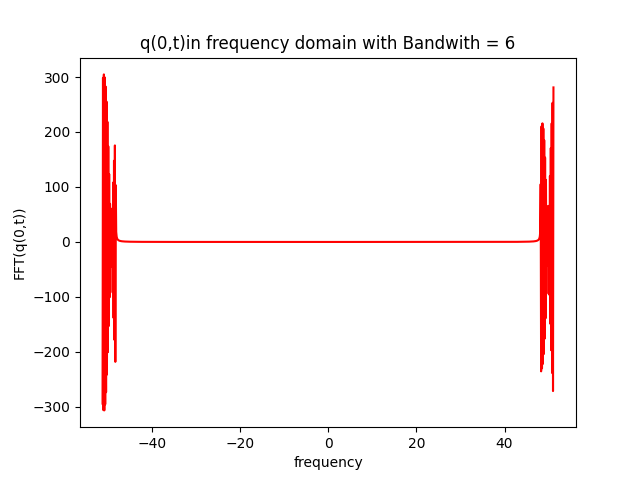
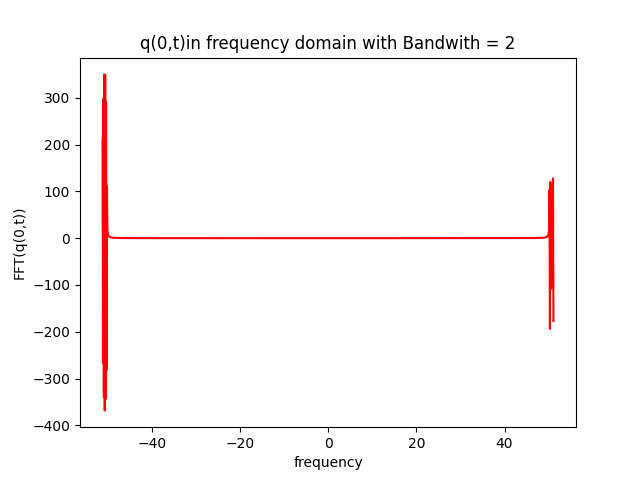
question 14

diff --git a/data.py b/data.py
@@ -1,15 +1,16 @@
 from math import *
 import numpy as np
 import matplotlib.pyplot as plt
+import scipy
 
 
 class DataGenerator:
 
     def __init__(self, Length=1e6, Bandwith=5, power_loss_db=0.2*1e-3, dispersion=17*1e-3, Gamma=1.27*1e-3,
-                 nsp=1, h=6.626*1e-34, lambda0=1.55*1e-6):
+                 nsp=1, h=6.626*1e-34, lambda0=1.55*1e-6,T=200,N=2**5,number_symbols=3,p=0.5):
 
         self.Length = Length
-        self.Bandwith = Bandwith
+        self.Bandwith = Bandwith # GHz to Hz
         self.power_loss_db = power_loss_db
         self.dispersion = dispersion
         self.Gamma = Gamma
@@ -26,6 +27,24 @@ class DataGenerator:
         self.sigma02 = self.nsp * self.h * self.alpha * self.f0
         self.sigma2 = (self.sigma02 * self.L0) / (self.P0 * self.T0)
         self.M = 16
+        
+        self.T = T
+        self.N = N
+        self.number_symbols = number_symbols # n in project guide
+        self.p = p # proba of having 0 in bit
+    
+        
+        self.dt = self.T / self.N
+
+        self.t = np.arange(start=-self.T/2,stop=self.T/2,step=self.dt)
+        
+        self.F = 1 / self.dt
+
+        self.df = 1 / self.T
+
+        self.f = np.arange(start=-self.F/2,stop=self.F/2,step=self.df)
+        
+        self.number_bits = self.number_symbols * int(log2(self.M)) # nb in guide
 
         # Constellation
 
@@ -42,12 +61,10 @@ class DataGenerator:
         self.Constellation = np.concatenate((np.concatenate((const1, const2), axis=0),
                                              np.concatenate((const3, const4), axis=0)), axis=0)
 
-    def source(self, N, p):
+    def source(self):
 
-        self.N = N
-        self.p = p
 
-        self.bernoulli = np.random.binomial(n=1, p=self.p, size=self.N)
+        self.bernoulli = np.random.binomial(n=1, p=self.p, size=self.number_bits)
 
         # return self.bernoulli
 
@@ -69,7 +86,7 @@ class DataGenerator:
         self.s = []
 
 
-        for i in range(0, self.N, 4):
+        for i in range(0, self.number_bits, 4):
             
             b0 = str(self.bernoulli[i])
             b1 = str(self.bernoulli[i+1])
@@ -83,7 +100,7 @@ class DataGenerator:
         
         self.s = np.asarray(self.s)
 
-    def mod(self,t):
+    def mod(self):
         
         Ns = len(self.s)
         
@@ -96,14 +113,31 @@ class DataGenerator:
         for i in range(self.l1,self.l2+1,1):
             
             self.q0t_list.append(sqrt(self.Bandwith) * complex(self.s[i - self.l1,0],self.s[i - self.l1,1]) *\
-                                 np.sinc(self.Bandwith * t - i))
+                                 np.sinc(self.Bandwith * self.t - i))
         
         self.q0t_list = np.asarray(self.q0t_list)
         
         self.q0t = np.sum(self.q0t_list,axis=0)
         
+        self.q0t_FFT = scipy.fft.fft(self.q0t)   
         
         
+    def plot_q0t(self):
+        
+        self.q0t_norm = [sqrt(self.q0t[i].real**2 + self.q0t[i].imag**2) for i in range(self.N)]
+
+        plt.plot(self.t,self.q0t_norm,color='black')
+        plt.ylabel(r'|q(0,t)|')
+        plt.xlabel(r'time')
+        plt.title('Norm of '+r'q(0,t)'+' vs time with Bandwith = '+str(self.Bandwith))
+        plt.savefig('./plots/norm_q0t.png')
+        plt.clf() 
+
+        plt.plot(self.f,self.q0t_FFT,color='red')
+        plt.xlabel(r'frequency')
+        plt.ylabel(r'FFT(q(0,t))')
+        plt.title(r'q(0,t)'+'in frequency domain with Bandwith = '+str(self.Bandwith))
+        plt.savefig('./plots/fft_q0t.png')
 
 
     def draw_Constellation(self):

diff --git a/channel.py b/channel.py
@@ -1,0 +1,115 @@
+import numpy as np
+import matplotlib.pyplot as plt
+from math import *
+
+import scipy
+from data import DataGenerator
+
+
+class Channel:
+
+    def __init__(self, Length=1e6, Bandwith=6, power_loss_db=0.2*1e-3, dispersion=17*1e-3, Gamma=1.27*1e-3,
+                 nsp=1, h=6.626*1e-34, lambda0=1.55*1e-6, T=200, N=2**5, number_symbols=3, p=0.5):
+
+        self.Length = Length
+        self.Bandwith = Bandwith
+        self.power_loss_db = power_loss_db
+        self.dispersion = dispersion
+        self.Gamma = Gamma
+        self.nsp = nsp
+        self.lambda0 = lambda0
+        self.h = h
+        self.c = 3e8
+        self.f0 = self.c / self.lambda0
+        self.alpha = 1e-4 * log2(10) * self.power_loss_db
+        self.beta2 = - (self.lambda0**2 / (2 * pi * self.c)) * self.dispersion
+        self.L0 = self.Length
+        self.T0 = sqrt(abs(self.beta2)*self.L0 / 2)
+        self.P0 = 2 / (self.Gamma * self.L0)
+        self.sigma02 = self.nsp * self.h * self.alpha * self.f0
+        self.sigma2 = (self.sigma02 * self.L0) / (self.P0 * self.T0)
+        self.M = 16
+
+        self.T = T
+        self.N = N
+        self.number_symbols = number_symbols  # n in project guide
+        self.p = p  # proba of having 0 in bit
+
+        self.data_generator = DataGenerator(
+
+            Bandwith=self.Bandwith, Length=self.Length, power_loss_db=self.power_loss_db,
+            dispersion=self.dispersion, Gamma=self.Gamma, nsp=self.nsp, lambda0=self.lambda0,
+            T=self.T, N=self.N, number_symbols=self.number_symbols, p=self.p
+
+        )
+
+        self.data_generator.source()
+        self.data_generator.bit_to_symb()
+        self.data_generator.mod()
+
+        self.q0t = self.data_generator.q0t
+
+        self.sigma2 = self.data_generator.sigma2
+
+        self.t = self.data_generator.t
+    
+    def setter_function(self,q0t):
+        
+        self.q0t = q0t
+
+    def channel_transfer_function(self, z):
+
+        hzf = []
+
+        for i in range(self.N):
+
+            hzf.append(np.exp(complex(0, np.square(2*pi*self.f[i])*z)))
+
+        hzf = np.asarray(hzf)
+
+        return hzf
+    
+    def channel_inverse_transfer_function(self,z):
+        
+        hzf = self.channel_transfer_function(z)
+        
+        hzf_inverse = []
+        
+        for i in range(self.N):
+            
+            hzf_inverse.append(complex(0,-1) * np.ln(hzf[i]) / (2*pi*self.f[i])**2 )
+            
+        return hzf_inverse
+
+    def channel(self, z):
+
+        self.z = z
+        self.a = self.sigma2 * self.Bandwith * self.z
+
+        self.f = self.data_generator.f
+
+        self.q0f = self.data_generator.q0t_FFT
+
+        # Channel Transfer function
+        self.qzf = self.q0f * self.channel_transfer_function(z)
+
+        # noise is an (N,) numpy array of complex valued Gaussian(0,sigma2) white noise
+        # real part independent of imaginary part
+        
+        noise = np.asarray([complex(np.random.normal(loc=0, scale=self.a / 2, size=1), 
+                                    np.random.normal(loc=0, scale=self.a / 2, size=1))
+                                    for _ in range(self.N)])
+
+        self.qzf += scipy.fft.fft(noise)
+        
+        self.qzt = scipy.fft.ifft(self.qzf)
+
+    def equilize(self,z):
+        
+        self.z = z
+        
+        self.f = self.data_generator.f
+        
+        self.qzfe = np.multiply(self.channel_inverse_transfer_function(z),self.qzf)
+        
+        self.qzte = scipy.fft.ifft(self.qzfe)

diff --git a/main_input_output_channel_equilize.py b/main_input_output_channel_equilize.py
@@ -1,0 +1,38 @@
+from channel import Channel
+import matplotlib.pyplot as plt
+import numpy as np
+import scipy
+
+optic_fiber_channel = Channel(Bandwith=0,T=10,N=2**7)
+
+A = 1
+
+t = optic_fiber_channel.t
+f = optic_fiber_channel.data_generator.f
+
+q0t = A * np.sinc(t)
+
+q0f = scipy.fftpack.fft.fft(q0t)
+
+
+fig, ax = plt.subplots(nrows=1,ncols=2,figsize=(20,10))
+
+ax[0].set_title('input time domain')
+ax[0].plot(t,q0t,label='q(t,0)',color='red',lw=3)
+ax[0].set_xlabel('time')
+ax[0].set_ylabel('q(t,0)')
+
+ax[0].spines['left'].set_position('center')
+ax[0].spines['right'].set_color('none')
+ax[0].spines['top'].set_color('none')
+
+ax[1].set_title('input frequency domain')
+ax[1].plot(f,q0f.real,label='q(f,0)',color='red',lw=3)
+ax[1].set_xlabel('frequency')
+ax[1].set_ylabel('|q(f,0)|')
+ax[1].spines['left'].set_position('center')
+ax[1].spines['right'].set_color('none')
+ax[1].spines['top'].set_color('none')
+
+plt.legend()
+plt.savefig('input_on_t_input_on_f.png')

diff --git a/main_plot_q0t.py b/main_plot_q0t.py
@@ -1,0 +1,23 @@
+import numpy as np
+from math import *
+from data import DataGenerator
+from channel import Channel
+import matplotlib.pyplot as plt
+import scipy
+
+dg = DataGenerator(Bandwith=2,T=10,N=2**10,number_symbols=3)
+
+dg.source()
+dg.bit_to_symb()
+dg.mod()
+# dg.plot_q0t()
+
+
+transmitter = Channel()
+
+z = 1
+transmitter.channel(z=z)
+
+qzf = transmitter.qzf
+
+qzt = transmitter.qzt
